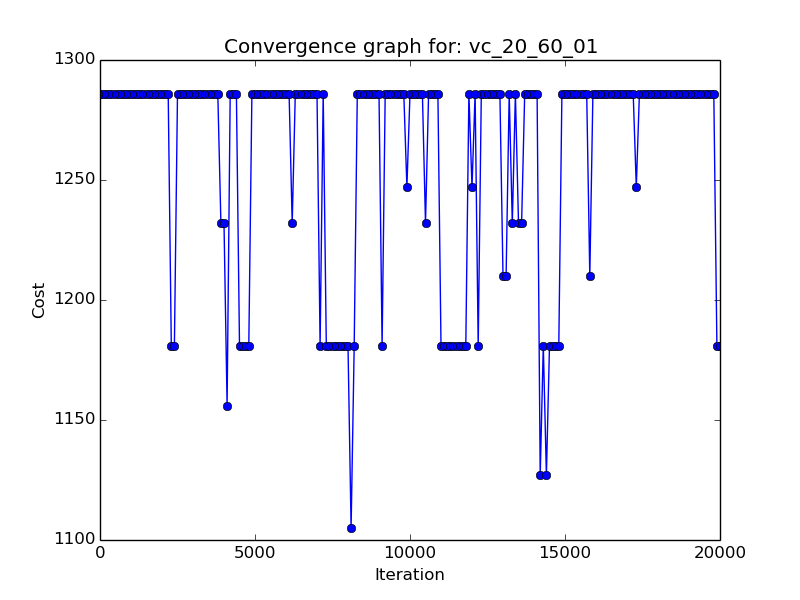
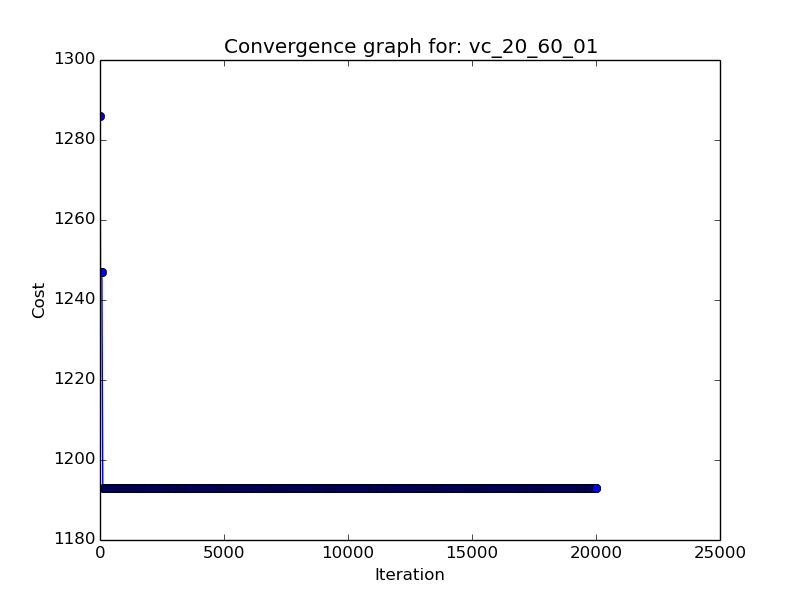
first version

diff --git a/src/com/khaleoc/Main.java b/src/com/khaleoc/Main.java
@@ -93,17 +93,72 @@ public class Main {
 
         }
 
-        return inputSolution;
+        Solution inputSolutionChecked = completeSol(inputSolution, allNd);
+
+        return inputSolutionChecked;
     }
 
-    public static LocalSearchBean localSearch(Solution inputSolution){
-        int iterator = 100;
-        LocalSearchBean toReturn = new LocalSearchBean(inputSolution, iterator);
+    public static LocalSearchBean localSearch(Solution inputSolution, List<Node> allNd){
+        int iterator = 0;
+
+        List<Node> alreadySelected = inputSolution.getSelNodes();
+        List<Node> notSelectedNodes = new ArrayList<>(allNd);
+        notSelectedNodes.removeAll(alreadySelected);
+
+        int approx_cost_best = inputSolution.getTotalCost();
+        int approx_cost = 0;
+        Node toRem = null;
+        Node toAdd = null;
+
+        if (notSelectedNodes.size() > 0 ){
+            // Posso provare lo swap dei nodi selezionati
+
+            for (int i = 0; i < alreadySelected.size(); i++){
+                Node wantToRemove = alreadySelected.get(i);
+                for (int j=0; j< notSelectedNodes.size(); j++){
+                    Node wantToAdd = alreadySelected.get(j);
+
+                    approx_cost = inputSolution.getTotalCost() - wantToRemove.getWeight() + wantToAdd.getWeight();
+                    iterator += 1;
+
+                    if (approx_cost < inputSolution.getTotalCost()){
+                        if (approx_cost_best > approx_cost) {
+                            toRem = wantToRemove;
+                            toAdd = wantToAdd;
+                            approx_cost_best = approx_cost;
+                        }
+                    }
+                }
+            }
+        } else {
+            // Posso solo eliminare nodi per 'alleggerire' la soluzione
+            for (int i = 0; i < alreadySelected.size(); i++){
+                Node wantToRemove = alreadySelected.get(i);
+                approx_cost = inputSolution.getTotalCost() - wantToRemove.getWeight();
+                iterator += 1;
+
+                if (approx_cost < inputSolution.getTotalCost()){
+                    if (approx_cost_best > approx_cost) {
+                        toRem = wantToRemove;
+                        approx_cost_best = approx_cost;
+                    }
+                }
+            }
+        }
+        if (toAdd != null) {
+            inputSolution.addNode(toAdd);
+        }
+        if (toRem != null) {
+            inputSolution.removeNode(toRem);
+        }
+
+        Solution inputSolChecked = completeSol(inputSolution, allNd);
+        LocalSearchBean toReturn = new LocalSearchBean(inputSolChecked, iterator);
 
         return toReturn;
     }
 
-    public static Solution criteria(Solution prevSol, Solution newSol){
+    public static Solution acceptanceCriteria(Solution prevSol, Solution newSol){
 
         if (prevSol.getTotalCost() > newSol.getTotalCost()){
             return newSol;
@@ -120,7 +175,8 @@ public class Main {
             List<Node> notSelectedNodes = new ArrayList<>(allAvailableNodes);
             notSelectedNodes.removeAll(alreadySelected);
 
-            notSelectedNodes.sort(Comparator.comparing(Node::getWeight));
+//            notSelectedNodes.sort(Comparator.comparing(Node::getWeight));
+            notSelectedNodes.sort(Comparator.comparing(Node::getEdgeSize).reversed());
 
             inputSol.addNode(notSelectedNodes.get(0));
             isComplete = inputSol.isComplete();
@@ -165,12 +221,10 @@ public class Main {
 
         while (currentIter < MAX_EVALS){
             Solution perturbedSolution = perturbation(allNd, currentSol);
-            // TODO:
-            Solution perturbedSolutionComplete = completeSol(perturbedSolution, allNd);
-            LocalSearchBean localSearchBean = localSearch(perturbedSolutionComplete);
+            LocalSearchBean localSearchBean = localSearch(perturbedSolution, allNd);
             Solution lsSolution = localSearchBean.getSolution();
 
-            currentSol = criteria(lsSolution, currentSol);
+            currentSol = acceptanceCriteria(lsSolution, currentSol);
 
             currentIter+= localSearchBean.getIteration();
 
@@ -179,12 +233,10 @@ public class Main {
 
         }
 
-
-
         long endTime = System.nanoTime();
         long durationMs = (endTime - startTime) / 1000000;  //divide by 1000000 to get milliseconds.
 
-        System.out.println("Execution time for " + bestSolutionToRet.getInstanceName() + ": " + durationMs +"\n");
+        System.out.println("Execution time for " + bestSolutionToRet.getInstanceName() + ": " + durationMs +" ms\n");
 
         Plot plt = Plot.create();
         plt.plot().add(coordX, coordY, "o-");
@@ -199,7 +251,7 @@ public class Main {
     public static void main(String[] args) throws IOException, PythonExecutionException {
         System.out.println("\n\n");
 
-        String instancePath = "wvcp-instances/vc_20_60_01.txt";
+        String instancePath = "wvcp-instances/vc_800_10000.txt";
         Graph instGraph = getInstance(instancePath);
 //        instGraph.printInfo();
 

diff --git a/src/com/khaleoc/Node.java b/src/com/khaleoc/Node.java
@@ -43,8 +43,8 @@ public class Node {
         this.edgeList = edgeList;
     }
 
-    public int getEdgeSize(List<Edge> edgeList){
-        return edgeList.size();
+    public int getEdgeSize(){
+        return this.edgeList.size();
     }
 
     @Override
